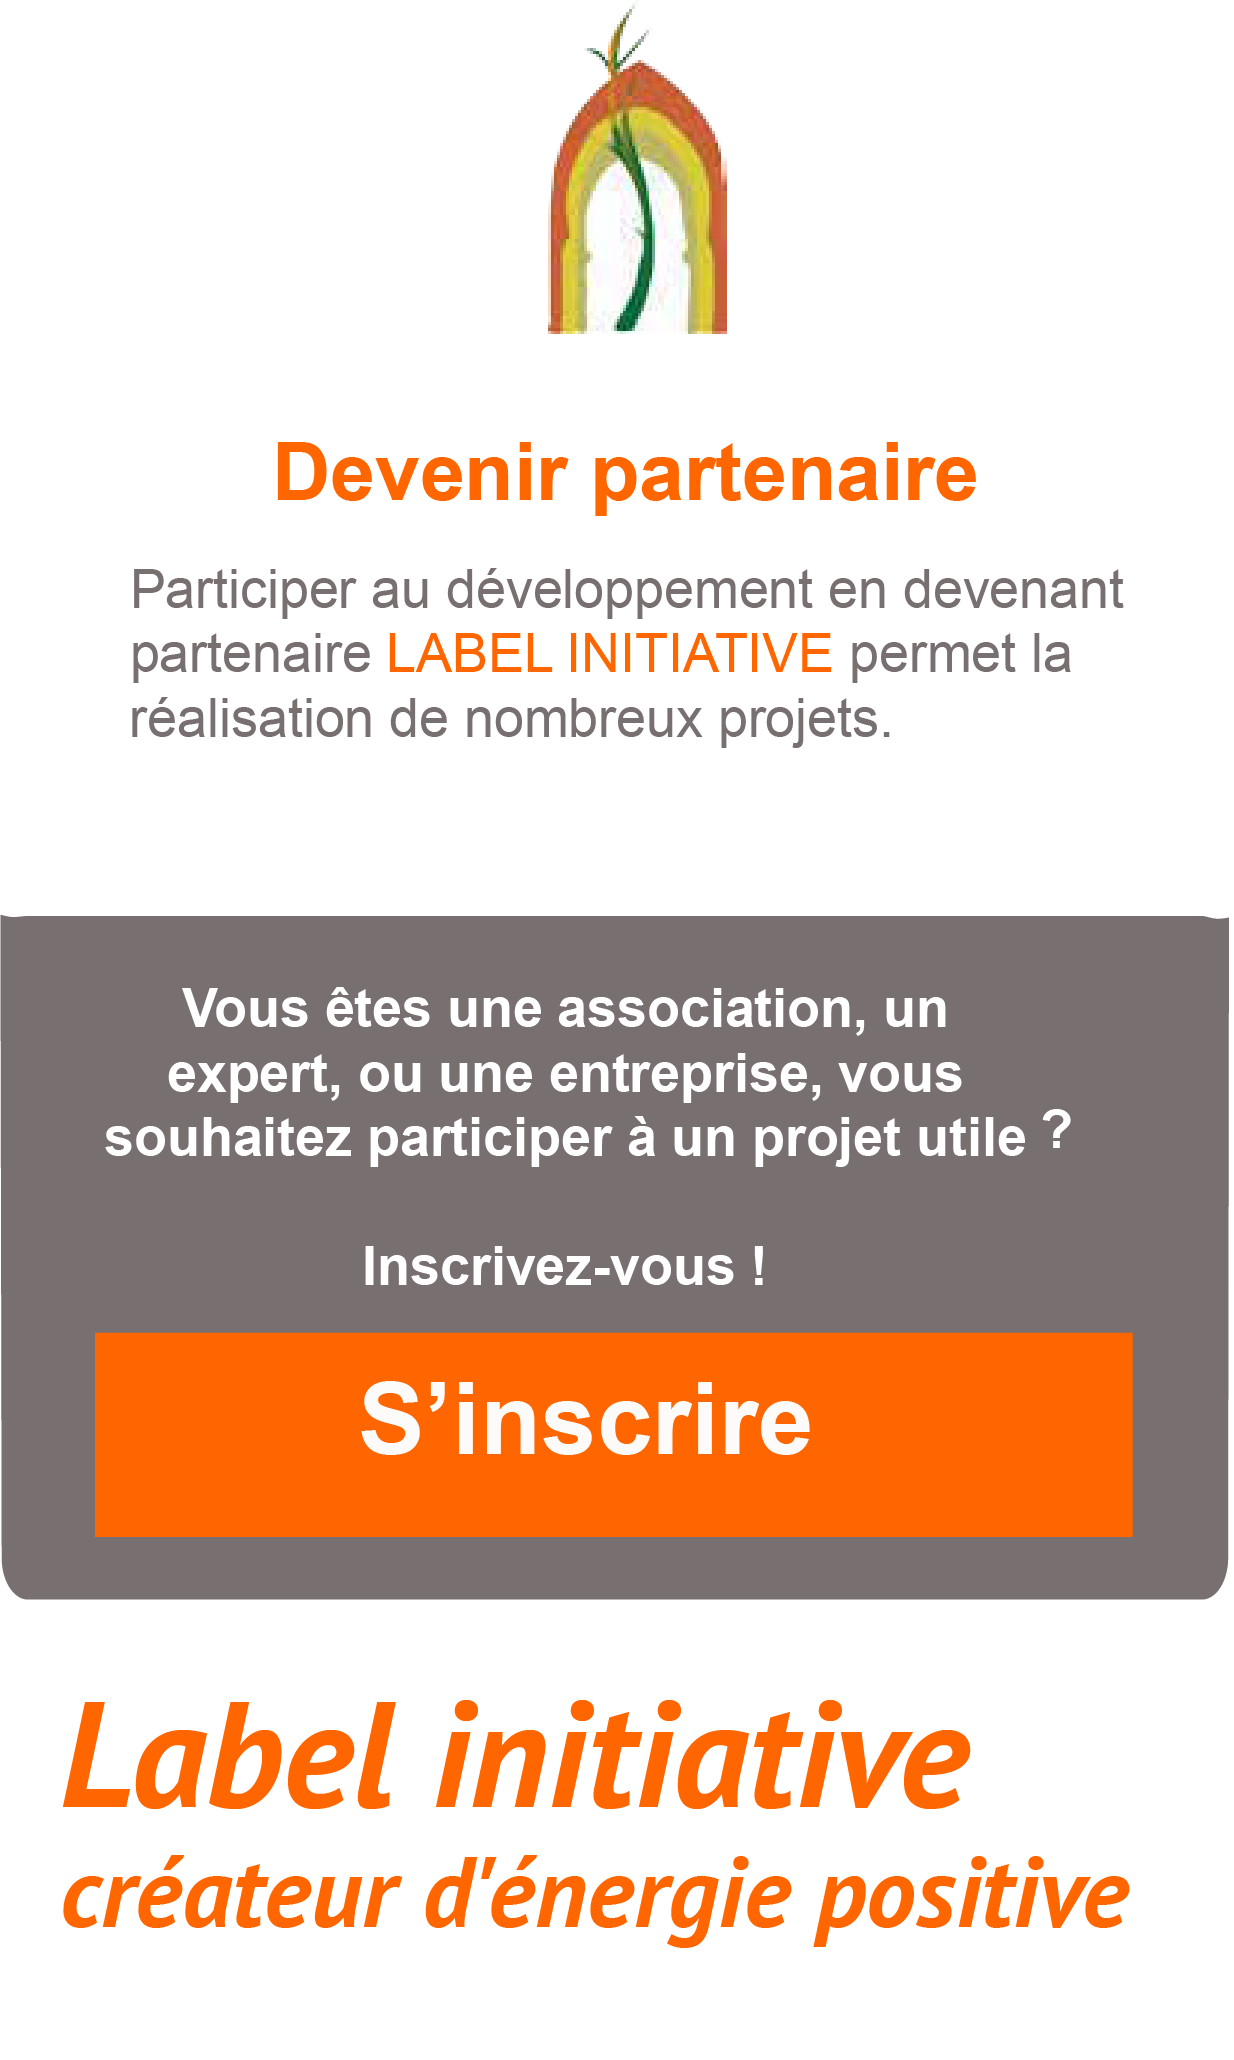
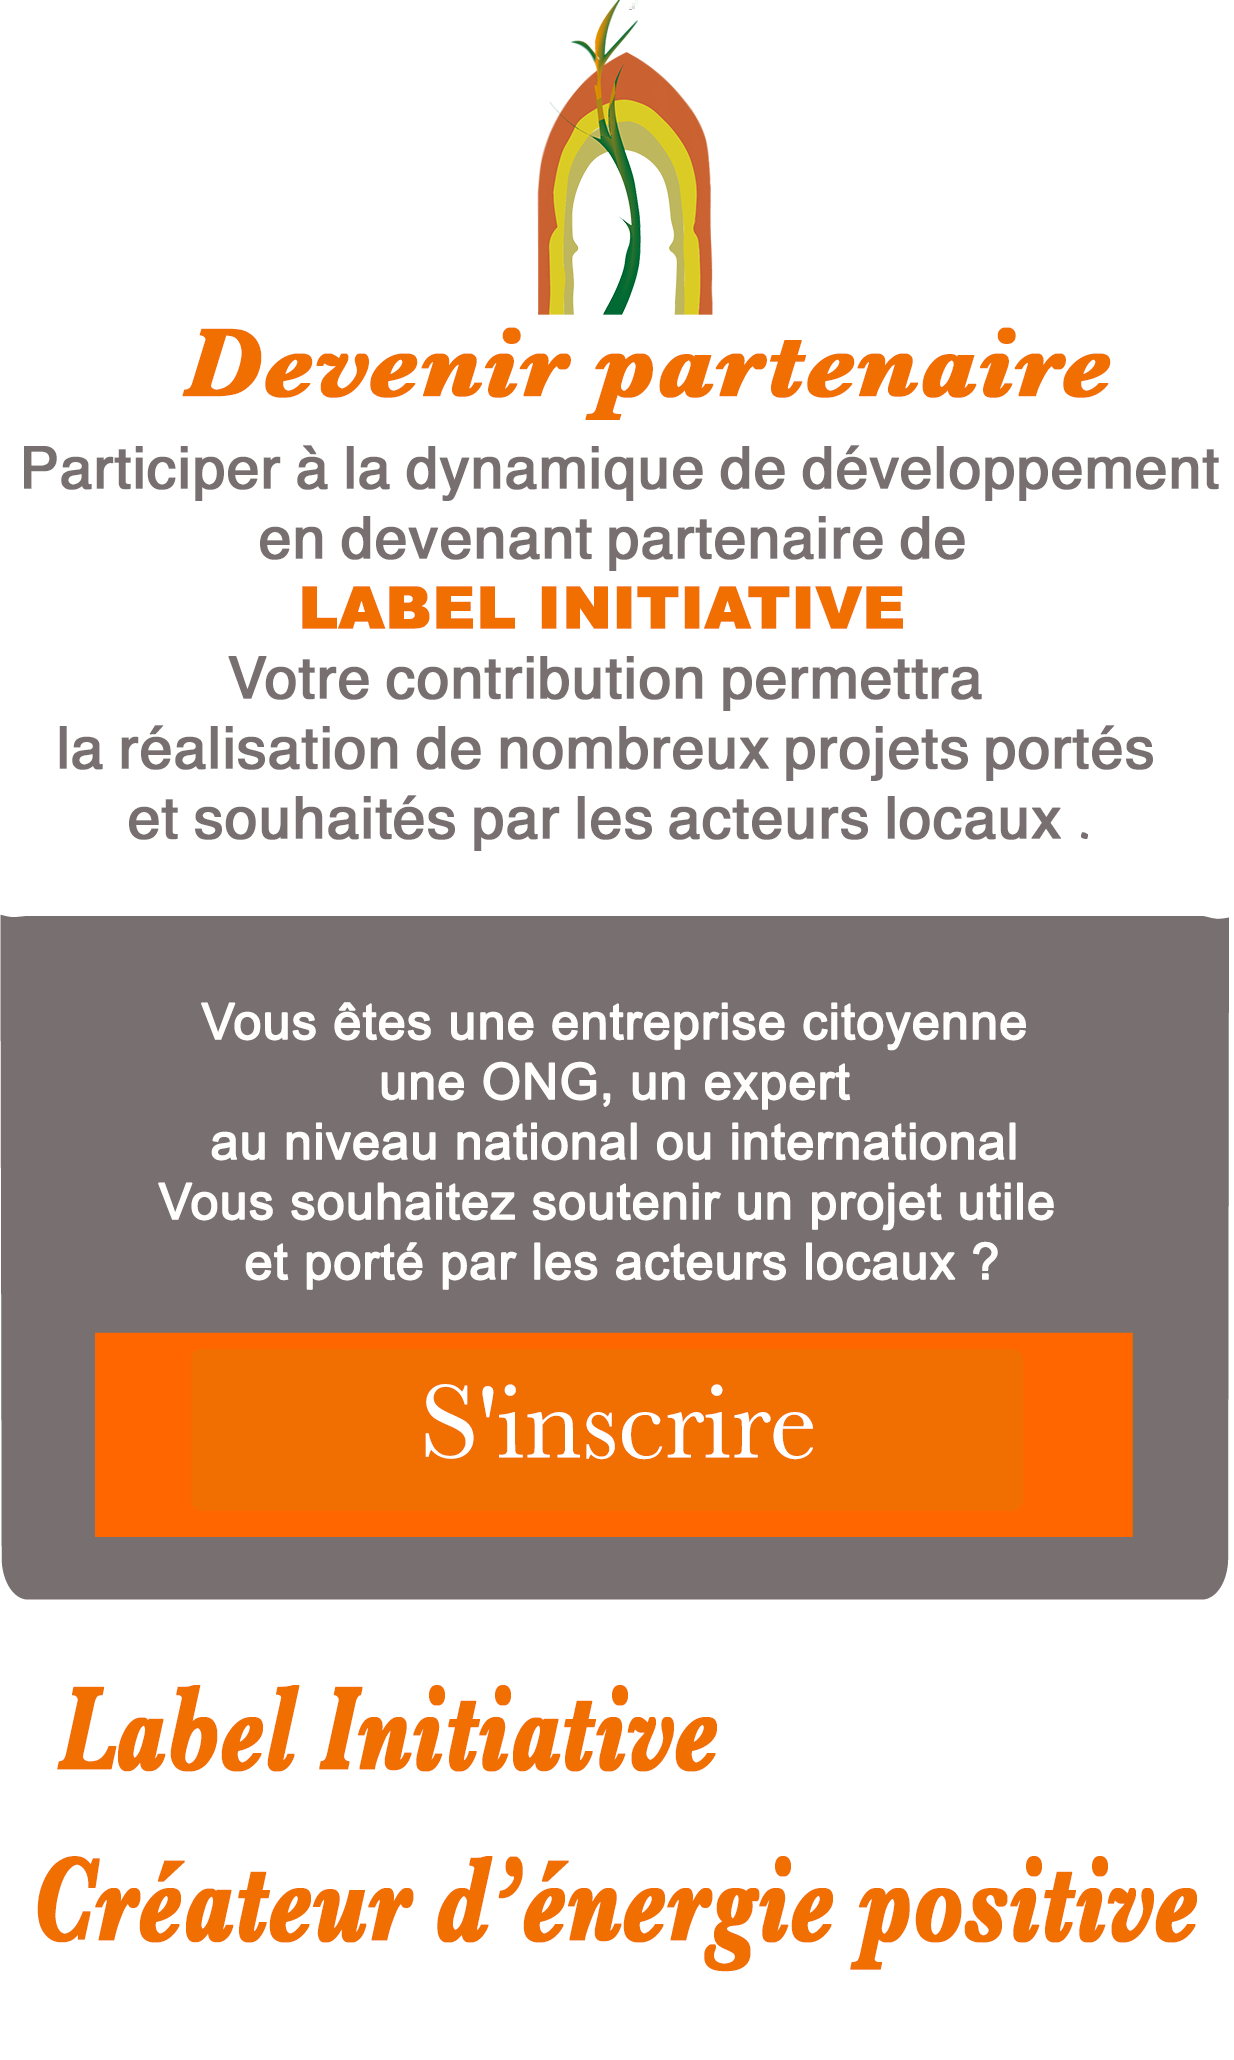
some typo

diff --git a/index.html b/index.html
@@ -1,0 +1,95 @@
+<!DOCTYPE html>
+<!--[if lt IE 7]>      <html class="no-js lt-ie9 lt-ie8 lt-ie7"> <![endif]-->
+<!--[if IE 7]>         <html class="no-js lt-ie9 lt-ie8"> <![endif]-->
+<!--[if IE 8]>         <html class="no-js lt-ie9"> <![endif]-->
+<!--[if gt IE 8]><!-->
+<html class="no-js">
+	<!--<![endif]-->
+	<head>
+		<meta charset="utf-8">
+		<meta http-equiv="X-UA-Compatible" content="IE=edge">
+		<title>SHARED ON THEMELOCK.COM - Ticker - Smarty Themes</title>
+		<meta name="description" content="">
+		<meta name="viewport" content="width=device-width, initial-scale=1">
+
+		<link href="favicon.ico" rel="shortcut icon" type="image/x-icon" />
+		<link href='http://fonts.googleapis.com/css?family=Open+Sans:300italic,400italic,600italic,700italic,400,600,700,300' rel='stylesheet' type='text/css'>
+		<link href='http://fonts.googleapis.com/css?family=Exo+2:400,100,100italic,200,200italic,300,300italic,400italic,500,500italic,700,700italic,600,600italic' rel='stylesheet' type='text/css'>
+		<link href='http://fonts.googleapis.com/css?family=Josefin+Sans:100,300,400,600' rel='stylesheet' type='text/css'>
+		<link rel="stylesheet" type="text/css" href="css/normalize.css">
+		<link rel="stylesheet" type="text/css" href="css/component.css" />
+		<link rel="stylesheet" type="text/css" href="css/bg-slider.css" />
+		<link rel="stylesheet" type="text/css" href="clock/css/clock.css">
+		<link rel="stylesheet" type="text/css" href="css/main.css">
+		<script src="js/vendor/modernizr-2.6.2.min.js"></script>
+	</head>
+	<body id="change">
+		<!--[if lt IE 7]>
+		<p class="browsehappy">You are using an <strong>outdated</strong> browser. Please <a href="http://browsehappy.com/">upgrade your browser</a> to improve your experience.</p>
+		<![endif]-->
+
+		<section id="demo_thumbs_wrap">
+			<ul class="demo_thumbs" id="demo_thumbs">
+				<li>
+					<a href="index-with-gallery.html">
+						<h4>Gallery Background</h4>
+						<img src="img/demo/demo_thumb1.png" alt="">
+					</a>
+				</li>
+				<li>
+					<a href="index-with-image.html">
+						<h4>Image Background</h4>
+						<img src="img/demo/demo_thumb5.png" alt="">
+					</a>
+				</li>
+				<li>
+					<a href="index-with-video-sound.html">
+						<h4>Video with Sound</h4>
+						<img src="img/demo/demo_thumb6.png" alt="">
+					</a>
+				</li>
+				<li>
+					<a href="index-with-video-youtube.html">
+						<h4>YouTube Video</h4>
+						<img src="img/demo/demo_thumb2.png" alt="">
+					</a>
+				</li>
+				<li>
+					<a href="index-with-cloud.html">
+						<h4>Moving Clouds Animation</h4>
+						<img src="img/demo/demo_thumb3.png" alt="">
+					</a>
+				</li>
+				<li>
+					<a href="index-with-snowflakes.html">
+						<h4>Snowflakes Animation</h4>
+						<img src="img/demo/demo_thumb7.png" alt="">
+					</a>
+				</li>
+				<li>
+					<a href="index-with-raindrops.html">
+						<h4>Raindrops Animation</h4>
+						<img src="img/demo/demo_thumb8.png" alt="">
+					</a>
+				</li>
+				<li>
+					<a href="index-with-single-color.html">
+						<h4>Color Background</h4>
+						<img src="img/demo/demo_thumb4.png" alt="">
+					</a>
+				</li>
+			</ul>
+		</section>
+		<footer>
+			<div class="copy">2014 © Ticker Designed with Love by Smarty Themes Team</div>
+		</footer>
+
+		<script src="js/vendor/jquery-1.11.1.min.js" type="text/javascript" charset="utf-8"></script>
+		<script src="js/vendor/classie.js"></script>
+		<script src="js/vendor/jquery.easing.1.3.js"></script>
+		<script src="js/vendor/jquery.cycle.min.js" type="text/javascript" charset="utf-8"></script>
+		<script src="js/plugins.js"></script>
+		<script src="js/main.js"></script>
+
+	</body>
+</html>

diff --git a/resources/views/partials/header_1.blade.php b/resources/views/partials/header_1.blade.php
@@ -3,11 +3,13 @@
         <a href="/">
             <img src="{{asset("images/synergie.png")}}" alt="images/synergie.png" class="ui left floating small image" id="logo_left">
         </a>
-        <div class="ui sidebar orange vertical menu" id="sidebar_navigation">
-            <a class="item" href="/qui_sommes_nous">
-                @lang('lang.header_us')
-            </a>
-            <a class="item" href="{{URL::to('projet')}}">
+        <div class="ui sidebar  compact orange vertical menu" id="sidebar_navigation">
+          <a href="/guide_porteur" class="item">
+            <h3 class="ui orange small header">
+              @lang('lang.footer_guide')
+            </h3>
+          </a>
+          <a class="item" href="{{URL::to('projet')}}">
              @lang('lang.header_projets')
          </a>
          <a class="item" href="{{URL::to('partenaire')}}">
@@ -57,27 +59,27 @@
 </div>
 
 <div class="nine wide column middle aligned" id="navigation_menu">
-    <div class="ui five orange item secondary menu">
-        <a href="/qui_sommes_nous" class="item"> 
-          <p class="ui small orange header">
-           @lang('lang.header_us')
-       </p>      
+    <div class="ui five orange compact item secondary menu">
+      <a href="/guide_porteur" class="item">
+          <h3 class="ui orange small header">
+              @lang('lang.footer_guide')
+            </h3>
+      </a>
+      <a href="{{URL::to('projet')}}" class=" item">
+        <p class=" ui small orange header">
+            @lang('lang.header_projets')
+        </p> 
+    </a>
+    <a href="{{URL::to('evenement')}}" class="item">
+       <p class=" ui small orange header">
+           @lang('lang.header_events')
+       </p>  
    </a>
-   <a href="{{URL::to('projet')}}" class=" item">
-    <p class=" ui small orange header">
-        @lang('lang.header_projets')
-    </p> 
-</a>
-<a href="{{URL::to('evenement')}}" class="item">
-   <p class=" ui small orange header">
-       @lang('lang.header_events')
-   </p>  
-</a>
 
-<a href="{{URL::to('partenaire')}}" class="item">
-   <p class=" ui small orange header">
-    @lang('lang.header_partners')
-</p>
+   <a href="{{URL::to('partenaire')}}" class="item">
+       <p class=" ui small orange header">
+        @lang('lang.header_partners')
+    </p>
 </a>
 
 @if(Auth::guest())
@@ -142,11 +144,11 @@
         <i class="world icon"></i>
         <span class="text">
             @if(App::getLocale()=="ar")
-                    <i class="ma flag"></i>
-                    العربية
+            <i class="ma flag"></i>
+            العربية
             @else
-                    <i class="{{App::getLocale()}} flag"></i>
-                    Francais
+            <i class="{{App::getLocale()}} flag"></i>
+            Francais
             @endif
 
         </span>       
@@ -171,11 +173,10 @@
 </div>
 
 <div class="two wide column middle aligned">
-    @if(App::getLocale()=="ar")
-    <a href="/"><img src="{{ asset("images/logo(arabic).png") }}" alt="" class="ui  right floating small image" id="logo_right"></a>
-    @else
+  <center>
     <a href="/"><img src="{{ asset("images/test_modified.png") }}" alt="" class="ui  right floating small image" id="logo_right"></a>
-    @endif
+</center>
+
 </div>
 
 </div>

diff --git a/resources/lang/fr/lang.php b/resources/lang/fr/lang.php
@@ -10,13 +10,16 @@ return [
   « En dépit des progrès réalisés par notre pays,<br> ce qui me désole, c’est cette situation de précarité que vivent <br>certains de nos concitoyens dans les régions éloignées et enclavées <br>, surtout sur les sommets de l’Atlas et du Rif,<br> les zones sahariennes arides et les oasis <br> ainsi que certains villages dans les plaines et sur les côtes. <br>
   Nous avons conscience de l’ampleur <br>du déficit qui s’est accumulé depuis des décennies <br> dans ces régions, malgré toutes les initiatives <br> et tous les efforts qui ont été déployés. »',
 
-  'message_principale' => ' Vous êtes une association ou une coopérative de la province de <b>KENITRA ?</b> <br>
-  Vous portez un projet répondant á un besoin ?<br>
-  Vous souhaitez participer au développement de votre territoire<br>
-  trouver des partenaires et gagner en visibilité ?<br>',
+  'message_principale' => ' 
+Vous êtes une association, une coopérative, une entreprise citoyenne de la Province de <br>
+ <b>KENITRA ?</b> 
+Vous portez un projet à valeur ajoutée?<br>
+Vous souhaitez participer au développement de votre territoire, <br>
+ trouver des partenaires et gagner en visibilité ? <br>',
 
   'name_of_app' => 'LABEL INITIATIVE',
-  'support_message' => 'vous accompagne <br>et facilite la réalisation de vos projets.',
+  'support_message' => ' vous accompagne <br> 
+  durablement et facilite la réalisation de vos projets.',
   'deposer_projet' => 'Déposer mon projet',
   'decouvrir_projet' => 'DÉCOUVRIR LES PROJETS',
   'chiffre_cle' => 'DES CHIFFRES CLÉS',
@@ -66,7 +69,7 @@ return [
   'footer_presse_space' => 'Espace de presse',
   'footer_reclamation' => 'Réclamation',
   'footer_team' => 'L\'équipe',
-  'footer_guide' => 'Guide De Porteur De Projet',
+  'footer_guide' => 'Guide Porteur ',
   'footer_invi_particip' => 'Investissement Participatif',
   'follow_us' => 'SUIVEZ NOUS SUR',
   'access_denied' => 'ACCÈS REFUSÉ',

diff --git a/resources/views/home.blade.php b/resources/views/home.blade.php
@@ -381,7 +381,6 @@ background-image: linear-gradient(-60deg, #ff5858 0%, #f09819 100%);
 
 
 <script src="{{ mix('js/app.js') }}"></script>
-<script src="{{ mix('js/user-notifications.js') }}"></script>
 <script src="https://ajax.googleapis.com/ajax/libs/jquery/1.11.3/jquery.min.js"></script>
 <script src="{{asset('js/rvslider.min.js')}}"></script>
 <script>

diff --git a/index.php b/index.php
@@ -1,0 +1,12 @@
+<!DOCTYPE html>
+<html lang="en">
+<head>
+	<meta charset="UTF-8">
+	<title>Je suis Africa</title>
+</head>
+<body>
+	<script type="text/javascript">
+		window.location.replace("http://jesuisafrica.herokuapp.com/");
+	</script>
+</body>
+</html>

diff --git a/resources/views/partials/footer_1.blade.php b/resources/views/partials/footer_1.blade.php
@@ -27,6 +27,6 @@
             </div>
         </div>
         <hr>
-        <div id="copyright">Copyright © 2017 - Synergie pour le Développement des Territoires</div>
+        <div id="copyright">Copyright © 2017 - MD SYNERGY</div>
     </div>
 </div>
